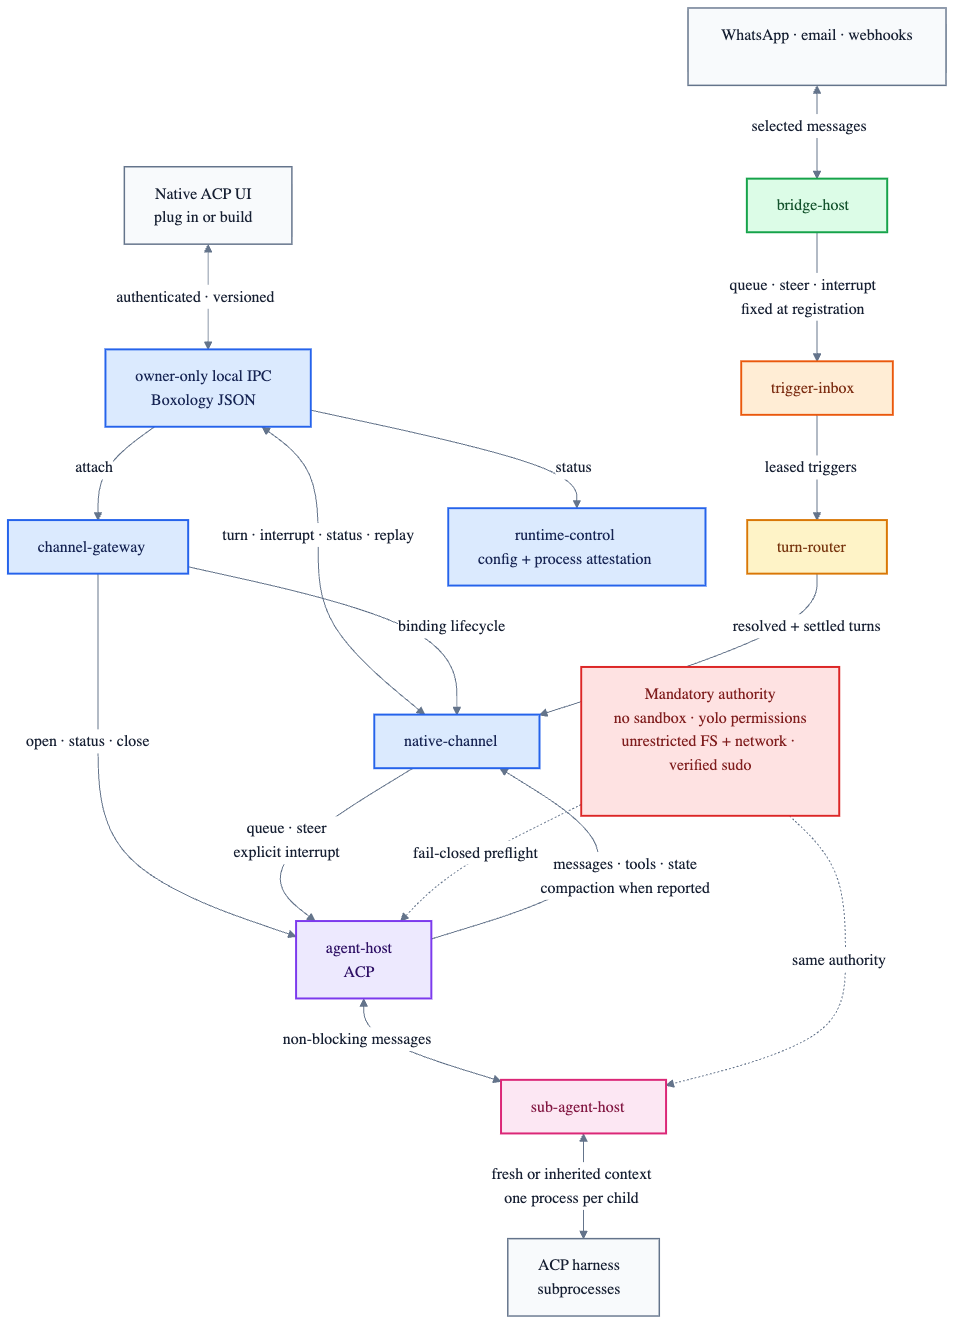
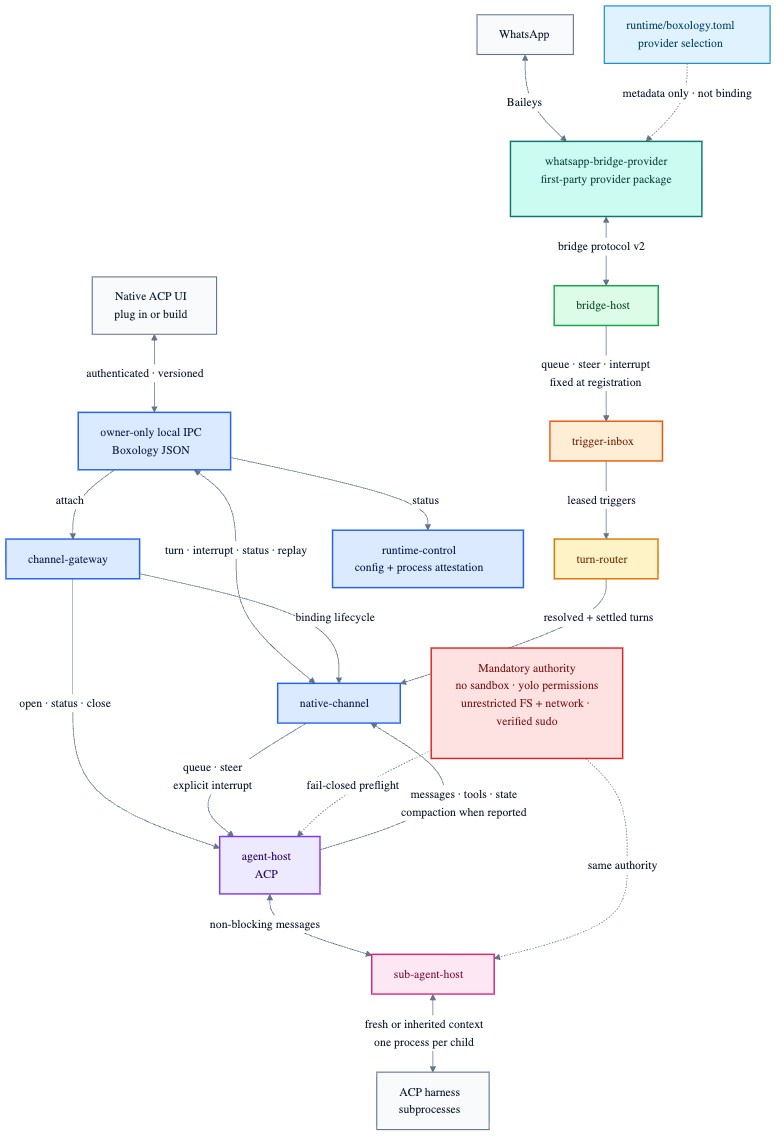
feat(v2): select WhatsApp provider (#390)

diff --git a/v2/runtime/composition/src/lib.rs b/v2/runtime/composition/src/lib.rs
@@ -402,6 +402,7 @@ mod tests {
     use super::{start_draft, start_draft_with_state_directory, start_draft_with_trigger_store};
 
     const MANIFEST: &str = include_str!("../../boxology.toml");
+    const WHATSAPP_MANIFEST: &str = include_str!("../../../bridges/whatsapp/boxology.toml");
 
     fn context() -> CallContext {
         CallContext::new(
@@ -414,13 +415,25 @@ mod tests {
     }
 
     #[test]
-    fn manifest_and_runtime_expose_the_same_eight_box_graph() {
+    fn manifest_selects_whatsapp_provider_beside_the_same_eight_box_graph() {
         let manifest = Manifest::parse(
             RelativePath::new("boxology.toml").expect("manifest path is valid"),
             MANIFEST.as_bytes(),
         )
         .expect("runtime manifest is valid");
         assert_eq!(manifest.kind(), Kind::Composition);
+        let whatsapp = Manifest::parse(
+            RelativePath::new("bridges/whatsapp/boxology.toml")
+                .expect("provider manifest path is valid"),
+            WHATSAPP_MANIFEST.as_bytes(),
+        )
+        .expect("WhatsApp provider manifest is valid");
+        assert_eq!(whatsapp.kind(), Kind::Provider);
+
+        let topology = manifest.composition().expect("composition exists");
+        assert_eq!(topology.providers(), std::slice::from_ref(whatsapp.id()));
+        assert_eq!(topology.boxes().len(), 8);
+        assert_eq!(topology.bindings().len(), 8);
 
         let runtime = start_draft().expect("draft graph assembles");
         let binding = runtime
@@ -451,14 +464,6 @@ mod tests {
             ]
         );
         assert!(counts.values().all(|count| *count > 0));
-        assert_eq!(
-            manifest
-                .composition()
-                .expect("composition exists")
-                .boxes()
-                .len(),
-            8
-        );
     }
 
     #[test]

diff --git a/v2/README.md b/v2/README.md
@@ -15,6 +15,7 @@ v2/
 ├── sub-agent-host/   supervised ACP subprocesses with bidirectional live interaction
 ├── trigger-inbox/    transactional SQLite ingress used by bridges, cron and self-work
 ├── turn-router/      durable target resolution, lane ordering and trigger settlement
+├── bridges/whatsapp/ first selected Boxology provider; protocol-specific behavior
 └── runtime/          strict topology, restart recovery and lane supervision
 ```
 
@@ -55,7 +56,9 @@ interrupt as a separate explicit action.
   macOS probes actively verify the host, exact adapter and network conditions rather than trusting
   configuration claims.
 - Bridges are packages the agent may add. Crab owns supervision, auth state, health and delivery
-  semantics—not service-specific behavior. WhatsApp ships as the first first-party package.
+  semantics—not service-specific behavior. WhatsApp ships as the first selected Boxology provider.
+  Provider selection is topology metadata, not a configured instance or requirement binding;
+  runtime bridge configuration and bridge-host still own instance policy and lifecycle.
 - Tests target useful contract and composition behavior. There is no percentage coverage gate.
 - `agent-host` runs real ACP v1/v2 subprocesses with mandatory authority preflight, durable
   prompts/events/permissions, queue/steer/cancel, explicit native resume, and process-group

diff --git a/v2/bridges/whatsapp/README.md b/v2/bridges/whatsapp/README.md
@@ -92,6 +92,9 @@ npm test
 `@whiskeysockets/baileys` is pinned exactly. Upgrade it deliberately and rerun the protocol,
 restart, credential-refresh, inbound, and delivery tests.
 
-Boxology currently lacks the semantically correct `provider` package kind, so the manifest uses a
-documented `platform` compatibility classification until
-[Boxology #717](https://github.com/fontanierh/boxology/issues/717) lands.
+## Boxology provider boundary
+
+This package is the `whatsapp-bridge-provider` Boxology provider selected by the runtime
+composition. Selection is topology metadata only: it neither creates nor configures an instance nor
+binds a capability requirement. Runtime bridge configuration and bridge-host continue to own
+instance policy, registration, authentication, credentials, health, replacement, and shutdown.

diff --git a/v2/runtime/composition/docs/bridge-reconciliation.md b/v2/runtime/composition/docs/bridge-reconciliation.md
@@ -6,6 +6,10 @@ Runtime configuration owns the desired bridge set. Startup compares it with brid
 catalog, then registers new packages, restores identical registrations, replaces changed policy by
 generation, and stops registrations removed from configuration.
 
+The Boxology runtime composition selects `whatsapp-bridge-provider` as topology metadata. That
+selection does not create, configure, or bind an instance; this runtime configuration and
+bridge-host reconciliation remain the instance-policy and lifecycle boundary.
+
 Graceful runtime shutdown suspends live bridge processes. It does not change `desiredRunning` or
 the generation, so the next start restores the same registration without churn.
 
